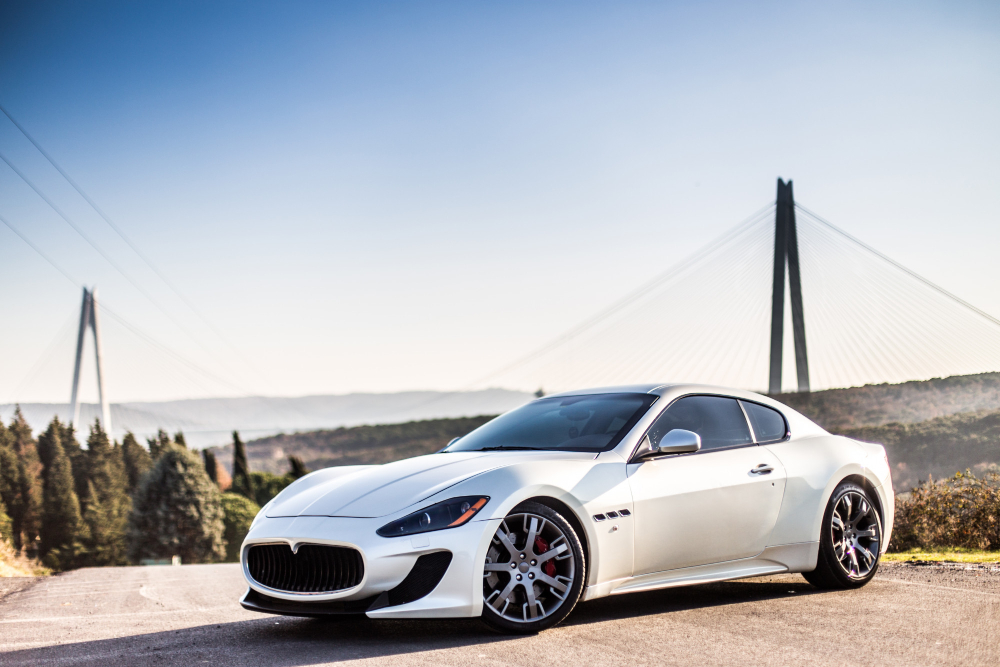
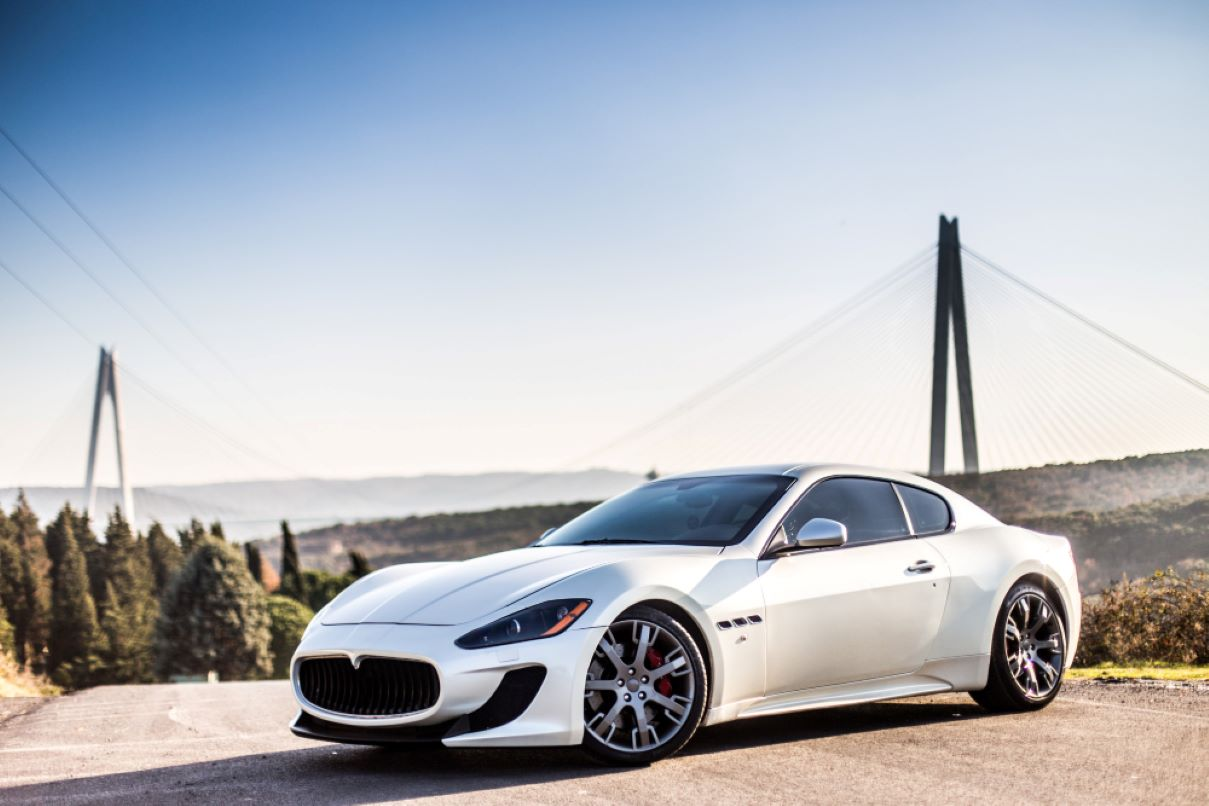
Adição do Slider na HOME, falta algumas configuração

diff --git a/index.html b/index.html
@@ -27,7 +27,47 @@
     </header>
     <main>
         <div class="banner">
-            <h1>iCAR - Sonhos Acessíveis</h1>
+            <!--<h1>iCAR - Sonhos Acessíveis</h1>-->
+            <div class="slides">
+                <!-- Radio Buttons-->
+                <input type="radio" name="radio-btn" id="radio1">
+                <input type="radio" name="radio-btn" id="radio2">
+                <input type="radio" name="radio-btn" id="radio3">
+                <input type="radio" name="radio-btn" id="radio4">
+                <!--FIm Radio Buttons-->
+
+                <!--Slides Imagens-->
+                <div class="slide first">
+                    <img src="./assets/imgs/slides/VN2O1Z2.jpg" alt="Imagen 1">
+                </div>
+                <div class="slide">
+                    <img src="./assets/imgs/slides/um-estacionamento-moderno-branco-do-carro-desportivo-na-estrada.jpg" alt="Imagen 2">
+                </div>
+                <div class="slide">
+                    <img src="./assets/imgs/slides/cupe-esportivo-cinza-escuro-mini-na-estrada.jpg" alt="Imagen 3">
+                </div>
+                <div class="slide">
+                    <img src="./assets/imgs/slides/belo-carro.jpg" alt="Imagen 4">
+                </div>
+                <!--Fim Slides Imagens-->
+
+                <!--Navegação Automatica-->
+                <div class="navegacao-auto">
+                    <div class="auto-btn1"></div>
+                    <div class="auto-btn2"></div>
+                    <div class="auto-btn3"></div>
+                    <div class="auto-btn4"></div>
+                </div>
+                <!--Fim Navegação Automatica-->
+            </div>
+
+            <div class="navegacao-manual">
+                <label for="radio1" class="manual-btn"></label>
+                <label for="radio2" class="manual-btn"></label>
+                <label for="radio3" class="manual-btn"></label>
+                <label for="radio4" class="manual-btn"></label>
+            </div>
+
         </div>
         <section class="principal">
             <h2 class="titulo-principal">Sobre a Empresa</h2>

diff --git a/assets/css/style.css b/assets/css/style.css
@@ -38,8 +38,11 @@ li{
 
 /*BANNER PRINCIPAL - HOME*/
 .banner{
-	display: flex;
-	background-image: url(../imgs/VN2O1Z2.jpg);
+	margin: 0 auto;
+	width: 1290px;
+	height: 500px;
+	overflow: hidden;
+	/*display: flex;
 	background-size: cover;
 	background-position-x: center;
 	flex-direction: column;
@@ -50,7 +53,98 @@ li{
 	font-weight: 900;
 	text-shadow: 1px 1px 2px #2a2a2a;
 	color: #fff;
-	text-transform: uppercase;
+	text-transform: uppercase;*/
+}
+
+.slides{
+	width: 400%;
+	height: 500px;
+	display: flex;
+}
+
+.slides input{
+	display: none;
+}
+
+.slide{
+	width: 25%;
+	position: relative;
+	transition: 1.2s;
+}
+
+.slide img{
+	width: 1290px;
+	height: 500px;
+}
+
+.navegacao-manual{
+	position: absolute;
+	width: 1290px;
+	margin-top: -40px;
+	display: flex;
+	gap: 60px;
+	justify-content: center;
+}
+
+.manual-btn{
+	border: 2.8px solid #ff0400;
+	padding: 5px;
+	border-radius: 10px;
+	cursor: pointer;
+	transition: 0.5s;
+}
+
+.manual-btn:hover{
+	background-color: #ff0400;
+}
+
+#radio1:checked ~ .first{
+	margin-left: 0;
+}
+
+#radio2:checked ~ .first{
+	margin-left: -25%;
+}
+
+#radio3:checked ~ .first{
+	margin-left: -50%;
+}
+
+#radio4:checked ~ .first{
+	margin-left: -75%;
+}
+
+.navegacao-auto div{
+	border: 2.8px solid #ff0400;
+	padding: 5px;
+	border-radius: 10px;
+	cursor: pointer;
+	transition: 0.5s;
+}
+
+.navegacao-auto{
+	position: absolute;
+	width: 1290px;
+	margin-top: 460px;
+	display: flex;
+	gap: 60px;
+	justify-content: center;
+}
+
+#radio1:checked ~ .navegacao-auto .auto-btn1{
+	background-color: #ff0400;
+}
+
+#radio2:checked ~ .navegacao-auto .auto-btn2{
+	background-color: #ff0400;
+}
+
+#radio3:checked ~ .navegacao-auto .auto-btn3{
+	background-color: #ff0400;
+}
+
+#radio4:checked ~ .navegacao-auto .auto-btn4{
+	background-color: #ff0400;
 }
 
 
